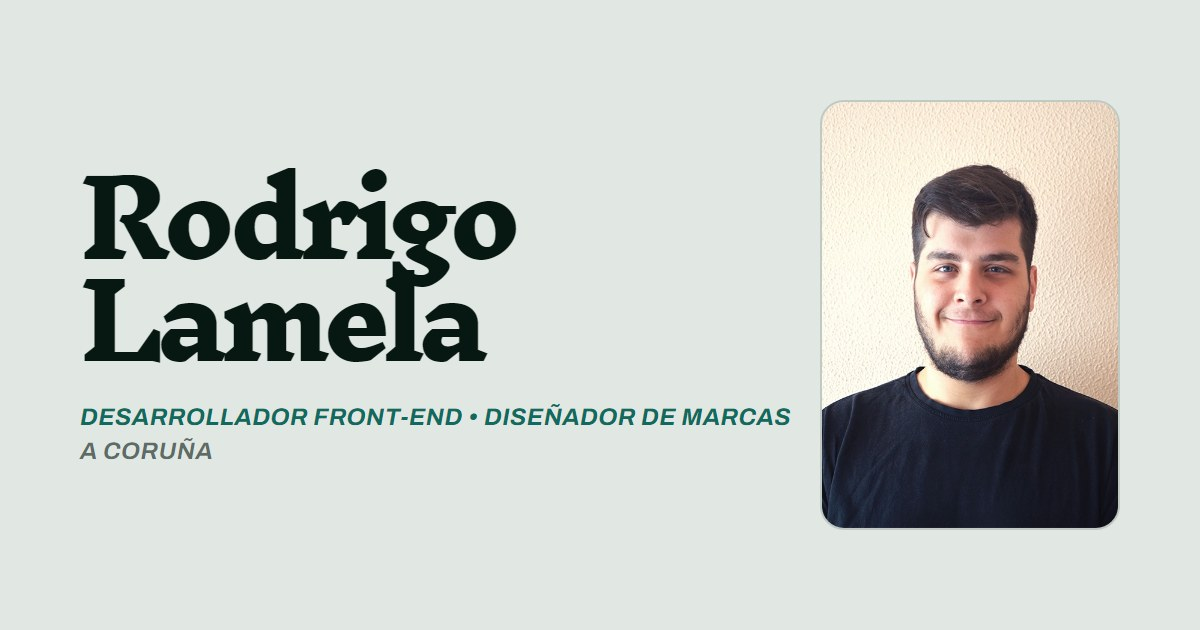
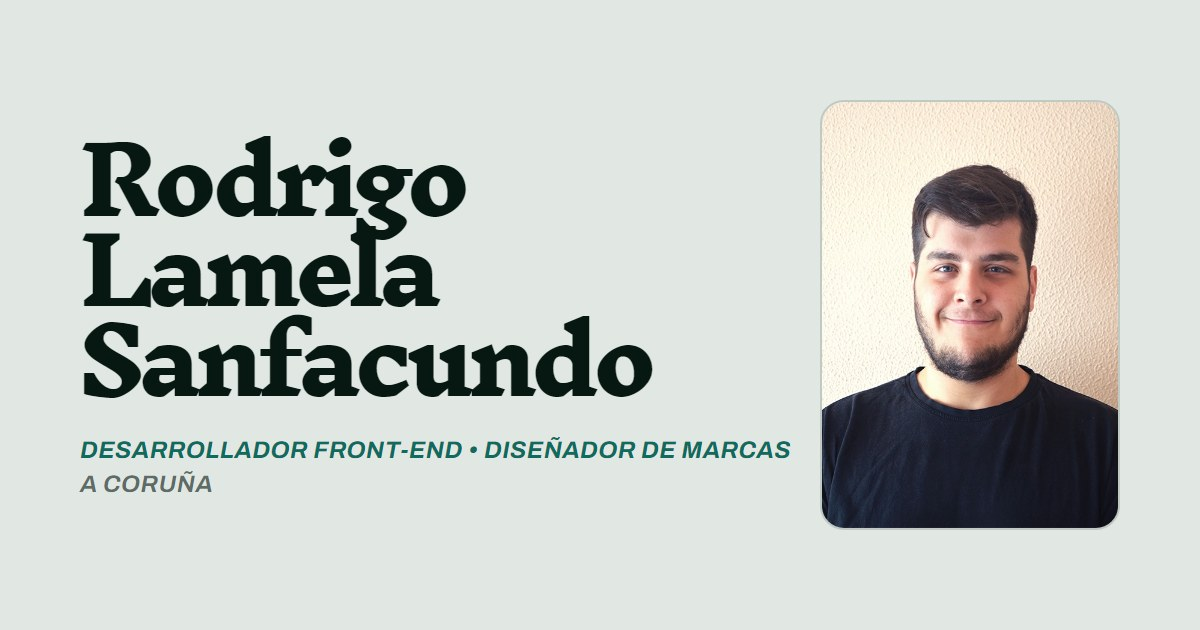
Incluye el segundo apellido en el nombre
Rodrigo Lamela Sanfacundo en el titular (una palabra por línea), el header, los títulos, los datos estructurados y las imágenes para redes, como en los CV.

Changed region(s): [[0.0617, 0.2111, 0.6783, 0.7841]]

diff --git a/src/app/page.tsx b/src/app/page.tsx
@@ -35,7 +35,7 @@ export default function Home() {
               className="flex items-center gap-3 transition hover:text-accent"
             >
               {/* El monograma es decorativo: el nombre accesible del enlace es
-                  el texto visible, "Rodrigo Lamela" (lo exige WCAG 2.5.3 para
+                  el texto visible, "Rodrigo Lamela Sanfacundo" (lo exige WCAG 2.5.3 para
                   el control por voz). */}
               <span
                 aria-hidden="true"
@@ -71,7 +71,7 @@ export default function Home() {
         <section className="mx-auto grid max-w-[1500px] gap-8 pb-20 pt-4 lg:grid-cols-[1fr_auto] lg:items-end lg:gap-16 lg:pb-28 lg:pt-12">
           <div>
             <h1 className="type-display text-ink">
-              {/* Nombre y apellido en dos líneas, como en un cartel. */}
+              {/* Nombre y apellidos, una palabra por línea, como en un cartel. */}
               {profile.name.split(" ").map((word) => (
                 <span key={word} className="block">
                   {word}
@@ -107,7 +107,7 @@ export default function Home() {
           <div className="order-first w-24 overflow-hidden rounded-2xl border border-ink/15 sm:w-32 lg:order-last lg:w-72">
             <ResponsiveImage
               src="perfil/rodrigo-lamela-foto"
-              alt="Retrato de Rodrigo Lamela"
+              alt="Retrato de Rodrigo Lamela Sanfacundo"
               sizes="(min-width: 1024px) 18rem, (min-width: 640px) 8rem, 6rem"
               priority
               className="block h-auto w-full"

diff --git a/src/app/proyectos/artabrian-weekend/page.tsx b/src/app/proyectos/artabrian-weekend/page.tsx
@@ -6,7 +6,7 @@ import { caseStudy } from "@/content/artabrian";
 import { featuredProject } from "@/content/home";
 import { baseOpenGraph } from "@/lib/site";
 
-const title = "Artabrian Weekend · Caso de estudio de Rodrigo Lamela";
+const title = "Artabrian Weekend · Caso de estudio de Rodrigo Lamela Sanfacundo";
 const description =
   "Web en React guiada por datos e identidad gráfica para el Artabrian Weekend, un fin de semana de torneos de cartas en Ferrol.";
 const path = "/proyectos/artabrian-weekend";

diff --git a/src/app/layout.tsx b/src/app/layout.tsx
@@ -5,7 +5,7 @@ import { baseOpenGraph, SITE_URL } from "@/lib/site";
 import { archivo, inknut } from "./fonts";
 import "./globals.css";
 
-const title = "Rodrigo Lamela · Desarrollador front-end";
+const title = "Rodrigo Lamela Sanfacundo · Desarrollador front-end";
 const description =
   "Desarrollador front-end (React) y diseñador de marcas en A Coruña. Disponible para trabajo presencial o híbrido en Galicia.";
 

diff --git a/src/content/home.ts b/src/content/home.ts
@@ -64,7 +64,7 @@ export type OutsideWorkItem = {
 };
 
 export const profile = {
-  name: "Rodrigo Lamela",
+  name: "Rodrigo Lamela Sanfacundo",
   roles: ["Desarrollador front-end", "Diseñador de marcas", "A Coruña"],
   statement: "Construyo interfaces en React con ojo de director de arte.",
   availability: "Disponible para trabajo presencial o híbrido en Galicia.",

diff --git a/src/app/not-found.tsx b/src/app/not-found.tsx
@@ -2,7 +2,7 @@ import type { Metadata } from "next";
 import Link from "next/link";
 
 export const metadata: Metadata = {
-  title: "Página no encontrada · Rodrigo Lamela",
+  title: "Página no encontrada · Rodrigo Lamela Sanfacundo",
   // Sin esto heredaría del layout un canonical que apunta a la portada.
   alternates: { canonical: null },
 };

diff --git a/src/lib/site.ts b/src/lib/site.ts
@@ -7,7 +7,7 @@
  */
 export const SITE_URL = "https://lml-web.vercel.app";
 
-export const SITE_NAME = "Rodrigo Lamela";
+export const SITE_NAME = "Rodrigo Lamela Sanfacundo";
 
 // Los metadatos se fusionan solo en el primer nivel: si una página define
 // `openGraph`, sustituye entero el del layout. Por eso lo común va aquí y
